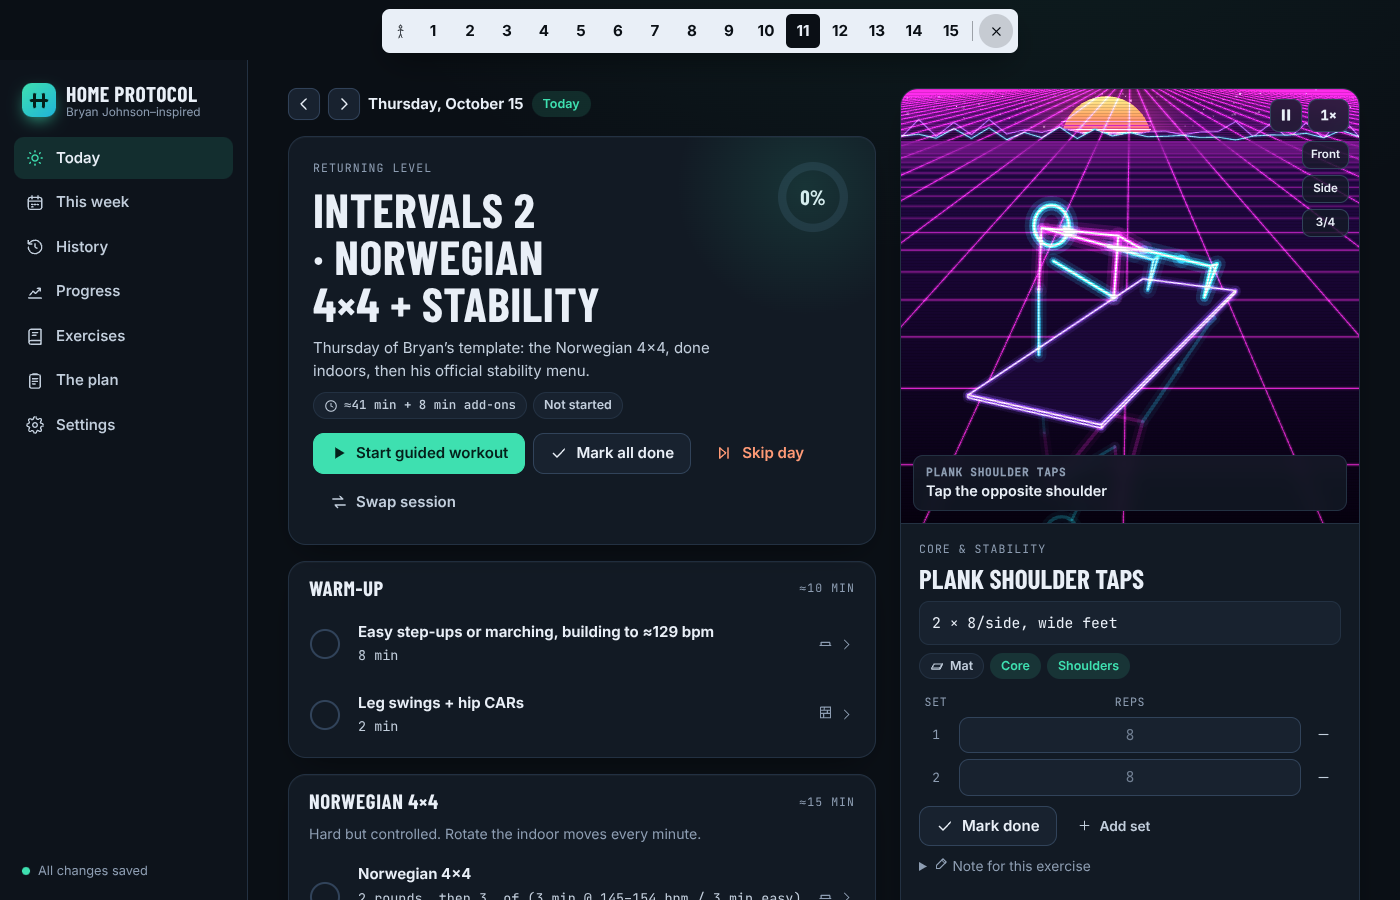
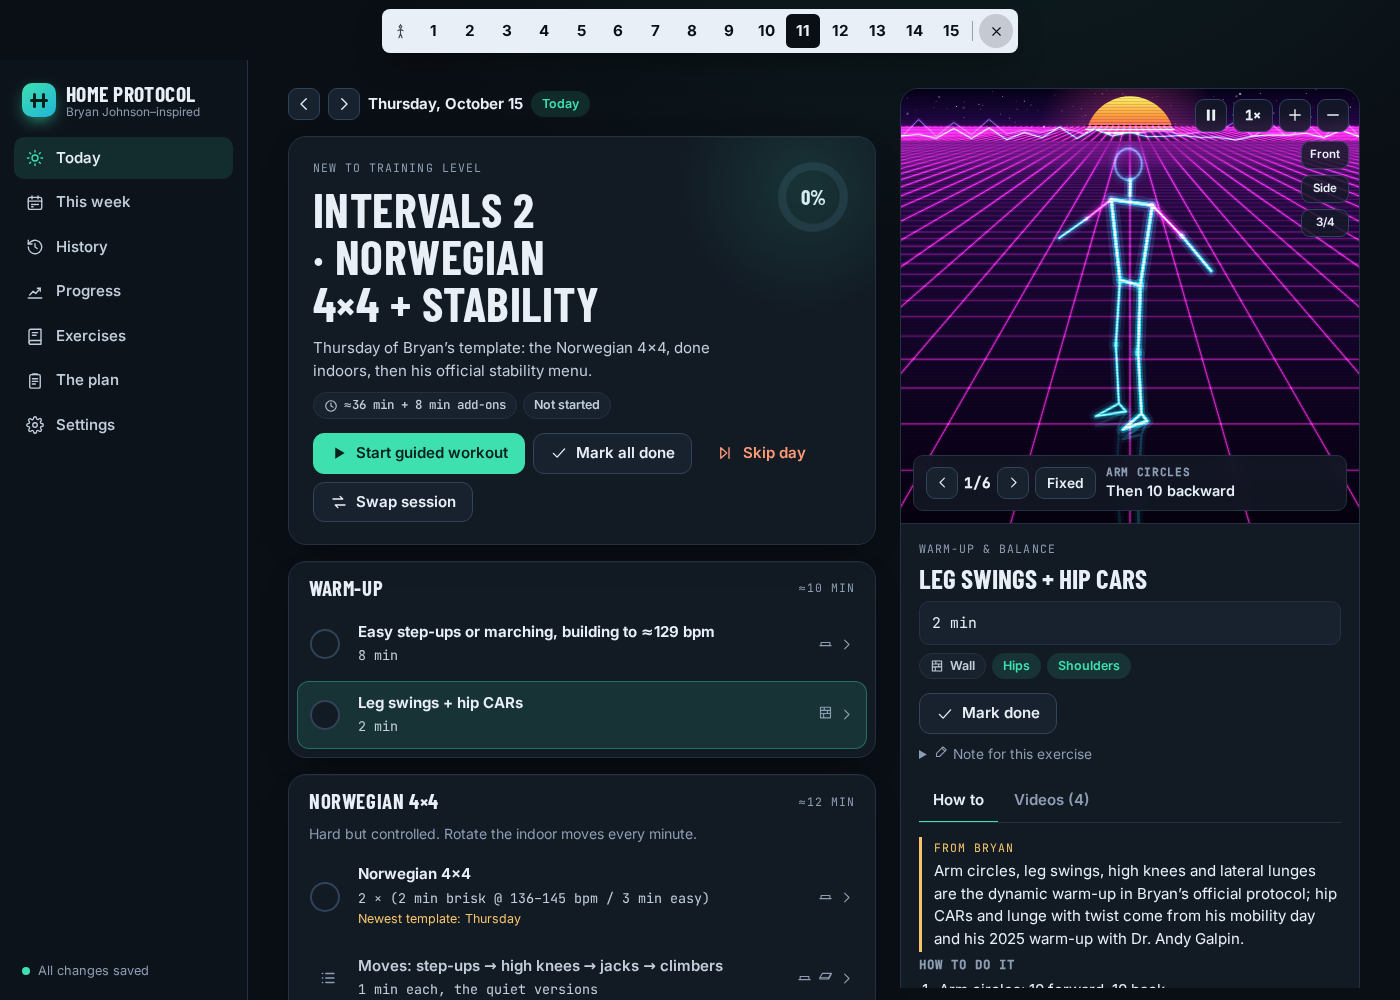
Improve animation controls and session swap styling

diff --git a/public/js/anim/stage.js b/public/js/anim/stage.js
@@ -124,7 +124,7 @@ export class Stage {
     this.clips = [];
     this.clipIndex = 0;
     this.clipLoops = 0;
-    this.rep = 0;
+    this.autoAdvance = true;
     this.userMoved = false;
     this.visible = true;
     this.dark = isDark();
@@ -200,6 +200,7 @@ export class Stage {
       c.enableDamping = true;
       c.dampingFactor = 0.08;
       c.enablePan = false;
+      c.enableZoom = false;
       c.minDistance = 1.4;
       c.maxDistance = 9;
       c.maxPolarAngle = Math.PI * 0.495;
@@ -424,7 +425,6 @@ export class Stage {
     this.clips = anim ? anim.clips.map(prepareClip) : [];
     this.clipIndex = 0;
     this.time = 0;
-    this.rep = 0;
     this.clipLoops = 0;
     this.lastCue = null;
     this.userMoved = false;
@@ -460,7 +460,7 @@ export class Stage {
     this.figure.setHighlight(clip.highlight);
     // Keep a camera angle the user chose by dragging; otherwise follow the clip's view.
     if (snapCamera || !this.userMoved) this.setView(this.forcedView || clip.camera.view || "three", snapCamera);
-    this.onCue({ cue: "", rep: this.rep, title: clip.title, clipIndex: this.clipIndex, clipCount: this.clips.length });
+    this.onCue({ cue: "", title: clip.title, clipIndex: this.clipIndex, clipCount: this.clips.length });
   }
 
   setView(view, snap = false) {
@@ -489,6 +489,22 @@ export class Stage {
 
   setSpeed(s) {
     this.speed = s;
+  }
+  setAutoAdvance(enabled) {
+    this.autoAdvance = enabled;
+    this.clipLoops = 0;
+  }
+  zoom(factor) {
+    if (!this.controls) return;
+    const target = this.controls.target;
+    const offset = this.camera.position.clone().sub(target);
+    offset.setLength(THREE.MathUtils.clamp(offset.length() / factor, this.controls.minDistance, this.controls.maxDistance));
+    this.camera.position.copy(target).add(offset);
+    this.camTarget.copy(target);
+    this.camGoal = null;
+    this.userMoved = true;
+    this.controls.update();
+    this.render();
   }
   play() {
     this.playing = true;
@@ -526,11 +542,10 @@ export class Stage {
       const before = Math.floor(this.time / clip.duration);
       this.time += dt;
       const after = Math.floor(this.time / clip.duration);
-      if (after > before) {
-        this.rep += 1;
+      if (after > before && this.autoAdvance && this.clips.length > 1) {
         this.clipLoops += 1;
-        const limit = clip.loops ?? (this.clips.length > 1 ? 2 : Infinity);
-        if (this.clipLoops >= limit && this.clips.length > 1) {
+        const limit = clip.loops ?? 2;
+        if (this.clipLoops >= limit) {
           this.clipIndex = (this.clipIndex + 1) % this.clips.length;
           this.time = 0;
           this.clipLoops = 0;
@@ -549,17 +564,16 @@ export class Stage {
       const s = sampleClip(clip, t);
       const J = computeJoints(s.pose);
       // still: a single frame at a set time (thumbnails), not part of the playback.
-      this.figure.update(J, { t, still: time != null, rep: this.rep, id: this.id, title: clip.title });
+      this.figure.update(J, { t, still: time != null, id: this.id, title: clip.title });
       this.propGroups[0].visible = !s.mirrored;
       this.propGroups[1].visible = s.mirrored;
       this.updateAttachments(clip, J, s.mirrored);
       this.figure.setPulse(0.5 + 0.5 * Math.sin(s.phase * Math.PI * 2));
       if (clip.floorScroll) this.gridTex.offset.y = ((time == null ? this.time : time) * clip.floorScroll) % 1;
       this.mirrored = s.mirrored;
-      if (s.cue !== this.lastCue || this.rep !== this.lastRep) {
+      if (s.cue !== this.lastCue) {
         this.lastCue = s.cue;
-        this.lastRep = this.rep;
-        this.onCue({ cue: s.cue, rep: this.rep, title: clip.title, clipIndex: this.clipIndex, clipCount: this.clips.length });
+        this.onCue({ cue: s.cue, title: clip.title, clipIndex: this.clipIndex, clipCount: this.clips.length });
       }
     }
     if (this.camGoal) {

diff --git a/public/js/components/stage-panel.js b/public/js/components/stage-panel.js
@@ -16,7 +16,7 @@ function webglAvailable() {
   }
 }
 
-const SPEEDS = [0.5, 1, 1.5];
+const SPEEDS = [0.5, 1, 1.5, 2];
 // Height of the cue bar plus its margin, kept clear of the figure.
 const CUE_SPACE = 64;
 
@@ -26,15 +26,16 @@ export function createStagePanel(container) {
     <div class="ctrls">
       <button type="button" class="btn sm icon-only" data-a="play" aria-label="Pause animation">${icon("pause")}</button>
       <button type="button" class="btn sm mono" data-a="speed" aria-label="Animation speed">1×</button>
+      <button type="button" class="btn sm icon-only" data-a="zoom-in" aria-label="Zoom in">${icon("plus")}</button>
+      <button type="button" class="btn sm icon-only" data-a="zoom-out" aria-label="Zoom out">${icon("minus")}</button>
     </div>
     <div class="views" role="group" aria-label="Camera">
       <button type="button" class="btn sm" data-view="front">Front</button>
       <button type="button" class="btn sm" data-view="side">Side</button>
       <button type="button" class="btn sm" data-view="three">3/4</button>
     </div>
-    <div class="cue"><span class="clip-nav"></span><span class="cue-text"><span class="ttl"></span><span class="txt">Loading 3D…</span></span><span class="rep"></span></div>`;
+    <div class="cue"><span class="clip-nav"></span><span class="cue-text"><span class="ttl"></span><span class="txt">Loading 3D…</span></span></div>`;
   const cueEl = container.querySelector(".cue .txt");
-  const repEl = container.querySelector(".cue .rep");
   const titleEl = container.querySelector(".cue .ttl");
   const navEl = container.querySelector(".cue .clip-nav");
   const playBtn = container.querySelector('[data-a="play"]');
@@ -42,14 +43,14 @@ export function createStagePanel(container) {
   let stage = null;
   let wanted = null;
   let speed = 1;
+  let autoAdvance = true;
   let disposed = false;
 
-  function onCue({ cue, rep, title, clipIndex, clipCount }) {
+  function onCue({ cue, title, clipIndex, clipCount }) {
     cueEl.textContent = cue || title || "";
-    repEl.textContent = rep ? `rep ${rep}` : "";
     navEl.innerHTML =
       clipCount > 1
-        ? `<button type="button" class="btn sm icon-only" data-clip="-1" aria-label="Previous variation">${icon("chevronL", "sm")}</button><span class="mono">${clipIndex + 1}/${clipCount}</span><button type="button" class="btn sm icon-only" data-clip="1" aria-label="Next variation">${icon("chevronR", "sm")}</button>`
+        ? `<button type="button" class="btn sm icon-only" data-clip="-1" aria-label="Previous movement">${icon("chevronL", "sm")}</button><span class="mono" aria-label="Movement ${clipIndex + 1} of ${clipCount}">${clipIndex + 1}/${clipCount}</span><button type="button" class="btn sm icon-only" data-clip="1" aria-label="Next movement">${icon("chevronR", "sm")}</button><button type="button" class="btn sm" data-a="advance" aria-pressed="${autoAdvance}" title="${autoAdvance ? "Automatically switch movements" : "Keep this movement selected"}">${autoAdvance ? "Auto" : "Fixed"}</button>`
         : "";
     titleEl.textContent = title || "";
   }
@@ -109,6 +110,16 @@ export function createStagePanel(container) {
       speed = SPEEDS[(SPEEDS.indexOf(speed) + 1) % SPEEDS.length];
       stage.setSpeed(speed);
       b.textContent = `${speed}×`;
+    } else if (b.dataset.a === "zoom-in") {
+      stage.zoom(1.2);
+    } else if (b.dataset.a === "zoom-out") {
+      stage.zoom(1 / 1.2);
+    } else if (b.dataset.a === "advance") {
+      autoAdvance = !autoAdvance;
+      stage.setAutoAdvance(autoAdvance);
+      b.textContent = autoAdvance ? "Auto" : "Fixed";
+      b.setAttribute("aria-pressed", String(autoAdvance));
+      b.title = autoAdvance ? "Automatically switch movements" : "Keep this movement selected";
     } else if (b.dataset.view) {
       stage.userMoved = false;
       stage.setView(b.dataset.view);

diff --git a/public/js/anim/styles/doodle.js b/public/js/anim/styles/doodle.js
@@ -1,11 +1,10 @@
 // Doodle: a biro stick figure in the margin of a school notebook, having opinions.
 // The lines are redrawn with a fresh wobble eight times a second, like hand-drawn
 // animation. The worked muscles get yellow highlighter, the heart a red-pen doodle;
-// the face strains on the way up, sweat drops fly, motion lines trail the feet, the
-// reps pile up as tally marks in the margin and a speech bubble complains about it
-// all, with opinions to suit the kind of exercise. Props are doodled boxes with
-// hatched sides, dumbbells two scribbled circles on a stick, bands in red pen. Drawn
-// as SVG, without three.js.
+// the face strains on the way up, sweat drops fly, motion lines trail the feet, and
+// a speech bubble gives opinions to suit the kind of exercise. Props are doodled
+// boxes with hatched sides, dumbbells two scribbled circles on a stick, bands in red
+// pen. Drawn as SVG, without three.js.
 
 import { asLayer, dumbbellHeads, isLit, litRegions, sceneFaces } from "./flat.js";
 import { hash } from "./kit.js";
@@ -90,7 +89,6 @@ export function createFigure() {
   let lit = new Set();
   let still = false;
   let beat = 1;
-  let reps = 0;
   let exId = "";
   const trail = { L: [], R: [] }; // recent foot positions on screen, for motion lines
 
@@ -117,16 +115,6 @@ export function createFigure() {
       return `<path d="${d}" fill="none" stroke="${color}" stroke-width="${width}" stroke-linecap="round" stroke-linejoin="round"/>` +
         `<path d="${curve(wobble(pts, sd + 500, amp))}" fill="none" stroke="${color}" stroke-width="${width * 0.5}" stroke-opacity="0.45" stroke-linecap="round"/>`;
     };
-
-    // Reps as tally marks in the margin, as the stage counts them.
-    const shown = still ? 7 : reps;
-    o += `<text x="52" y="38" fill="${INK}" font-size="13" ${HAND}>reps:</text>`;
-    for (let i = 0; i < Math.min(shown, 40); i++) {
-      const g = Math.floor(i / 5), k = i % 5, x0 = 92 + g * 30;
-      o += k < 4
-        ? pen([{ x: x0 + k * 5, y: 26 }, { x: x0 + k * 5 + 1, y: 40 }], 300 + i, 1.6)
-        : pen([{ x: x0 - 3, y: 38 }, { x: x0 + 19, y: 27 }], 300 + i, 1.6);
-    }
 
     // Ground: a wobbly line and a scribbled shadow.
     const g = view.project({ x: J.pelvis.x, y: 0, z: J.pelvis.z });
@@ -292,7 +280,6 @@ export function createFigure() {
     update(joints, info = {}) {
       J = joints;
       still = !!info.still;
-      reps = info.rep || 0;
       exId = info.id || "";
     },
     draw,

diff --git a/public/css/app.css b/public/css/app.css
@@ -382,9 +382,8 @@ input[type="range"] { width: 100%; accent-color: var(--accent); }
 .stage .cue {
   position: absolute; left: 12px; right: 12px; bottom: 12px; padding: 8px 12px; border-radius: 10px;
   background: color-mix(in srgb, var(--surface) 82%, transparent); backdrop-filter: blur(8px); border: 1px solid var(--line);
-  font-weight: 600; font-size: 0.9rem; display: flex; gap: 10px; align-items: center; min-height: 40px; transition: opacity 0.2s;
+  font-weight: 600; font-size: 0.9rem; display: grid; grid-template-columns: auto minmax(0, 1fr); gap: 10px; align-items: center; min-height: 40px; transition: opacity 0.2s;
 }
-.stage .cue .rep { margin-left: auto; font-family: var(--font-mono); font-size: 0.78rem; color: var(--muted); white-space: nowrap; }
 .stage .clip-title { position: absolute; left: 12px; top: 12px; display: flex; gap: 6px; align-items: center; flex-wrap: wrap; max-width: calc(100% - 140px); }
 .stage .ctrls { position: absolute; right: 10px; top: 10px; display: flex; gap: 6px; }
 .stage .ctrls .btn { background: color-mix(in srgb, var(--surface) 80%, transparent); backdrop-filter: blur(8px); }
@@ -613,7 +612,7 @@ td.cur, th.cur { background: var(--accent-soft); }
 .stage .cue { display: grid; grid-template-columns: auto minmax(0, 1fr) auto; }
 .stage .cue .clip-nav { display: inline-flex; align-items: center; gap: 6px; }
 .stage .cue .clip-nav:empty { display: none; }
-.stage .cue .cue-text { display: grid; min-width: 0; }
+.stage .cue .cue-text { display: grid; grid-column: 2; min-width: 0; }
 .stage .cue .ttl { font-size: 0.7rem; font-family: var(--font-mono); text-transform: uppercase; letter-spacing: 0.06em; color: var(--muted); white-space: nowrap; overflow: hidden; text-overflow: ellipsis; }
 .stage .cue .ttl:empty { display: none; }
 .stage .views { top: 52px; bottom: auto; }

diff --git a/public/js/anim-styles.js b/public/js/anim-styles.js
@@ -25,7 +25,7 @@ export const ANIM_STYLES = [
   { id: "synthwave", name: "Synthwave", tech: "canvas", after: "1980s retro-futurism", blurb: "Neon tubes on a scrolling grid under a striped sunset, mirrored on a wet floor; the worked muscles in hot pink. Drawn on a 2D canvas." },
   { id: "blueprint", name: "Blueprint", tech: "svg", after: "Engineering drawings", blurb: "A technical drawing that measures you: live knee, hip and elbow angles, centre lines, hatched muscles, steps and boxes dimensioned and a title block naming the exercise. Drawn as SVG." },
   { id: "stardust", name: "Stardust", tech: "canvas", after: "Long-exposure light painting", blurb: "A body of about 1,800 particles drifting in deep space, trailing light as they move; golden where the muscles work. Drawn on a 2D canvas." },
-  { id: "doodle", name: "Doodle", tech: "svg", fun: true, after: "Margin doodles in a school notebook", blurb: "A wobbly biro stick figure on lined paper with highlighter on the worked muscles, sweat drops, tally marks for reps and opinions about every exercise. Drawn as SVG." },
+  { id: "doodle", name: "Doodle", tech: "svg", fun: true, after: "Margin doodles in a school notebook", blurb: "A wobbly biro stick figure on lined paper with highlighter on the worked muscles, sweat drops and opinions about every exercise. Drawn as SVG." },
   { id: "googly", name: "Googly", tech: "canvas", fun: true, after: "Felt puppets", blurb: "A fuzzy monster in huge trainers whose googly eyes rattle with real physics on every move. Drawn on a 2D canvas." },
 ];
 

diff --git a/public/js/views/today.js b/public/js/views/today.js
@@ -203,7 +203,7 @@ export function render(el, params) {
       <div class="btn-row">
         ${rest || (l && l.skip) ? "" : `<button type="button" class="btn primary" data-guided>${icon("play")} Start guided workout</button><button type="button" class="btn" data-all>${icon("check")} Mark all done</button>`}
         ${rest ? "" : l && l.skip ? "" : `<button type="button" class="btn ghost skip" data-skip>${icon("skip")} Skip day</button>`}
-        <label class="btn ghost" style="position:relative">${icon("swap")} <span>${rest ? "Train anyway" : "Swap session"}</span>
+        <label class="btn" style="position:relative">${icon("swap")} <span>${rest ? "Train anyway" : "Swap session"}</span>
           <select data-swap aria-label="Swap session" style="position:absolute;inset:0;opacity:0;cursor:pointer"><option value="">${rest ? "Choose a session…" : "Today's own session"}</option>${swapOptions}</select>
         </label>
       </div>

diff --git a/public/css/themes.css b/public/css/themes.css
@@ -273,7 +273,7 @@
 [data-skin="chapters"] .detail-body { padding: 22px clamp(16px, 2.4vw, 32px) 28px; }
 [data-skin="chapters"] .stage { border: 0; }
 [data-skin="chapters"] .stage .cue { border: 0; border-radius: 0; background: var(--ink); color: var(--bg); backdrop-filter: none; }
-[data-skin="chapters"] .stage .cue .rep, [data-skin="chapters"] .stage .cue .ttl { color: color-mix(in srgb, var(--bg) 70%, var(--ink)); }
+[data-skin="chapters"] .stage .cue .ttl { color: color-mix(in srgb, var(--bg) 70%, var(--ink)); }
 [data-skin="chapters"] .stage .cue .btn { background: transparent; color: var(--bg); }
 [data-skin="chapters"] .stage .ctrls .btn, [data-skin="chapters"] .stage .views .btn { backdrop-filter: none; background: var(--bg); }
 [data-skin="chapters"] .detail h2 { font-size: clamp(2rem, 2.8vw, 2.8rem); line-height: 0.95; letter-spacing: -0.04em; }

diff --git a/README.md b/README.md
@@ -150,7 +150,7 @@ How the themes are built, and how to add your own: [docs/THEMES.md](docs/THEMES.
 
 Other ways to draw the exercise animations, on all 62 exercises, props, dumbbells and bands included. **Athlete** is the default. Pick another in **Settings → Animation style**, which has a live preview (pick any exercise for it under the preview) and a card with a still of each style on that exercise, or use **Try styles live** there: it opens today's session (on a phone or a rest day, the exercise in the preview) with a numbered switcher at the top of the screen (hover for the name; on a phone it turns into ‹ name ›), like the theme switcher. Both switchers can be open at once.
 
-Every style plays the same movement: the stage works out the skeleton and the camera once, and each style draws them its own way. The first six are three.js scenes. The other nine don't use three.js to draw: they get the joints projected to the screen (or, for Liquid chrome, the camera itself) and draw with SVG, a 2D canvas, text or a shader of their own, so the camera buttons and dragging still work in all of them.
+Every style plays the same movement: the stage works out the skeleton and the camera once, and each style draws them its own way. The first six are three.js scenes. The other nine don't use three.js to draw: they get the joints projected to the screen (or, for Liquid chrome, the camera itself) and draw with SVG, a 2D canvas, text or a shader of their own, so the camera buttons, zoom controls and dragging still work in all of them. The animation speed button goes up to 2×; for multi-movement animations, use the arrows to select a movement and choose **Fixed** to keep it on screen.
 
 | # | Style | Drawn with | Looks like |
 |---|---|---|---|
@@ -167,12 +167,12 @@ Every style plays the same movement: the stage works out the skeleton and the ca
 | 11 | **Synthwave** | 2D canvas | Neon tubes on a magenta grid that scrolls toward you in true perspective, a striped sun behind wireframe mountains, a reflection on the wet floor; the worked muscles in hot pink. |
 | 12 | **Blueprint** | SVG | An engineering drawing that measures you as you move: live knee and hip angle dimensions, readouts of both knees, hips and elbows, hatched muscles, dash-dot centre lines, hidden lines dashed, the height of a step or box dimensioned, and a title block naming the exercise. |
 | 13 | **Stardust** | 2D canvas | About 1,800 particles in deep space, each chasing its own spot on the body with its own lag, so the moving parts smear into light trails; the joints shine as a constellation. |
-| 14 | **Doodle** (funny) | SVG | A biro stick figure in a school notebook, its lines wobbling like hand-drawn animation: highlighter on the worked muscles, a face that strains on the way up, flying sweat, motion lines, reps as tally marks in the margin and a speech bubble with opinions about each kind of exercise. |
+| 14 | **Doodle** (funny) | SVG | A biro stick figure in a school notebook, its lines wobbling like hand-drawn animation: highlighter on the worked muscles, a face that strains on the way up, flying sweat, motion lines and a speech bubble with opinions about each kind of exercise. |
 | 15 | **Googly** (funny) | 2D canvas | A fuzzy purple monster in enormous trainers whose googly eyes run on real physics (every jolt of the head throws the pupils about), with a wobbly antenna and buck teeth; the worked muscles turn sparkling pink, and cardio beats a heart on its belly. |
 
-![The fifteen animation styles, each on a different exercise](docs/screenshots/anim-styles.png)
+![The fifteen animation styles previewed on one exercise](docs/screenshots/anim-styles.png)
 
-![Today with the animation style switcher at the top, plank shoulder taps drawn in the Synthwave style](docs/screenshots/anim-live.png)
+![Today with the animation style switcher, a fixed warm-up movement, and the zoom controls](docs/screenshots/anim-live.png)
 
 How the styles are built, and how to add one: [docs/ANIMATIONS.md](docs/ANIMATIONS.md#animation-styles).
 

diff --git a/docs/ANIMATIONS.md b/docs/ANIMATIONS.md
@@ -136,7 +136,8 @@ export default {
 - The clip loops. If the last key differs from the first, the engine adds a
   return key automatically (`close: false` to disable, `closeTime` for its length).
 - Several clips play in turn (twice each by default, `loops: n` to change). Use them
-  for multi-move drills or two variants of one exercise.
+  for multi-move drills or two variants of one exercise. In the viewer, choose
+  **Fixed** to stay on one movement or use the arrows to pick another.
 - A key's `cue` shows under the animation from that key until the next key that
   has a cue, so put it on the key where the movement **starts**. A cue on the
   last key only shows if the engine adds a return key. Keep cues short and
@@ -210,8 +211,8 @@ public/js/anim/styles/
 
 Each style module exports `createFigure()`. The stage still samples the clip and
 computes the joints (`rig.js`) every frame and passes them to
-`figure.update(J, { still, rep, id, title })` (a one-off frame for a thumbnail, the
-rep count, the exercise id and the clip's title), so every style plays every clip
+`figure.update(J, { still, id, title })` (a one-off frame for a thumbnail, the
+exercise id and the clip's title), so every style plays every clip
 exactly like the mannequin.
 
 **A three.js style** returns a `group` the stage adds to its scene, plus
@@ -238,7 +239,7 @@ group; the stage lays it over the 3D canvas (which stays underneath, see-through
 dragging still turns the camera) and calls `figure.draw(view)` each frame. `view`
 has the size, `project(point)` to CSS pixels (with depth), `scaleAt(point)` in
 pixels per metre, the clip's props, the `camera` (position, world matrix and
-inverse projection), so the camera buttons and dragging work as usual, `attachments`
+inverse projection), so the camera buttons, zoom controls and dragging work as usual, `attachments`
 (the held dumbbells as `{ c, axis, size }`, the bands and the string as
 `[end, end]`, as the 3D scene has them this frame) and `interactive` (whether the
 stage has view buttons in its top right). `flat.js` turns the joints into body

diff --git a/CHANGELOG.md b/CHANGELOG.md
@@ -1,5 +1,14 @@
 # Changelog
 
+## [1.10.0] - 2026-10-15
+
+### Added
+- Zoom controls and 2× speed for exercise animations, with a Fixed mode for multi-movement animations.
+
+### Changed
+- Removed the live rep counter from animations.
+- Restyled the session swap button to match the selected theme.
+
 ## [1.9.0] - 2026-10-15
 
 ### Added
